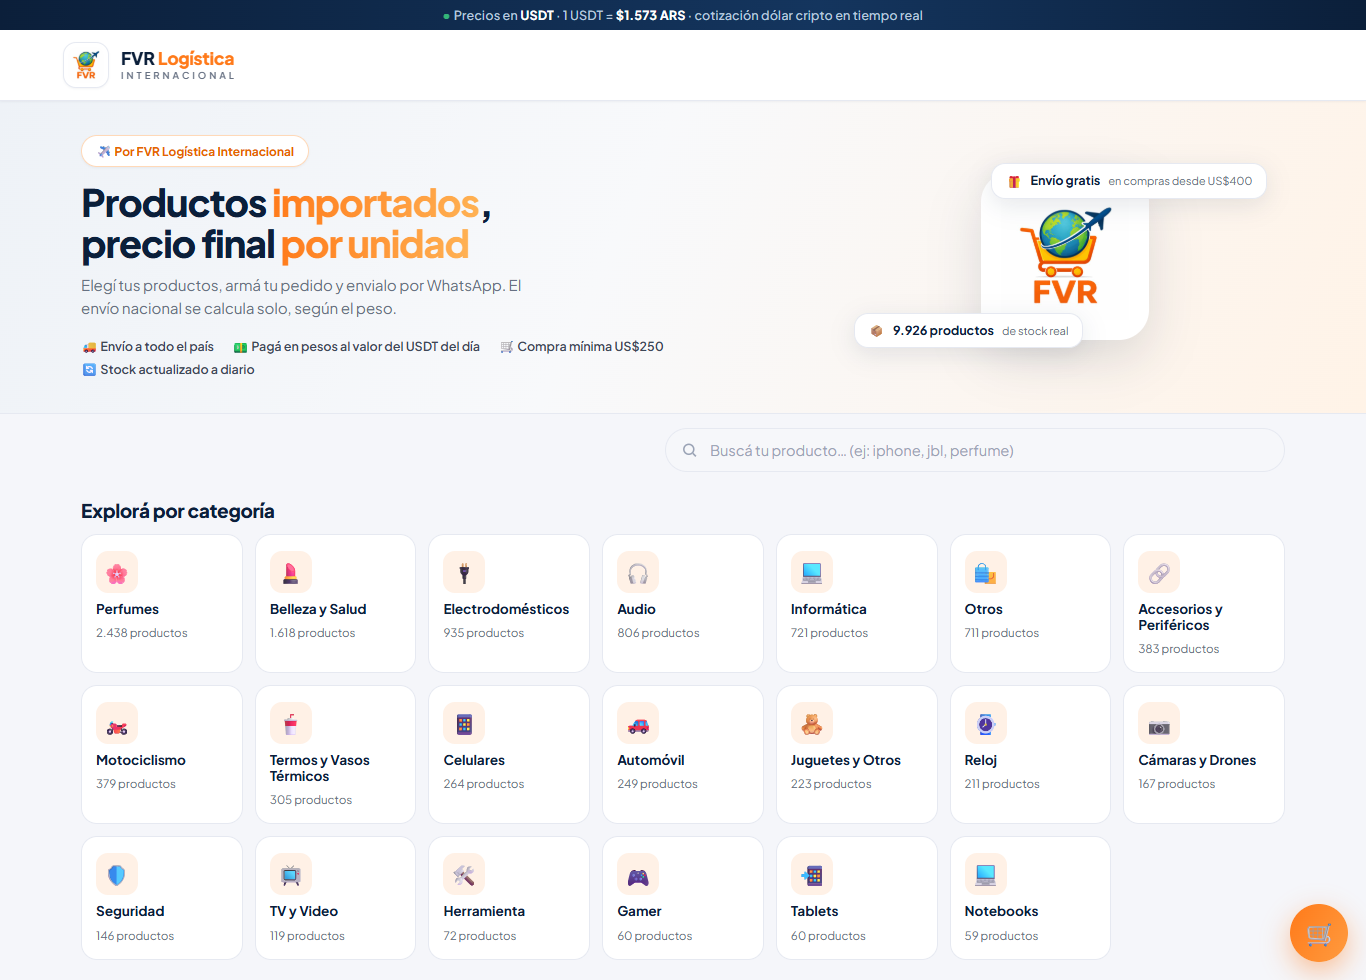
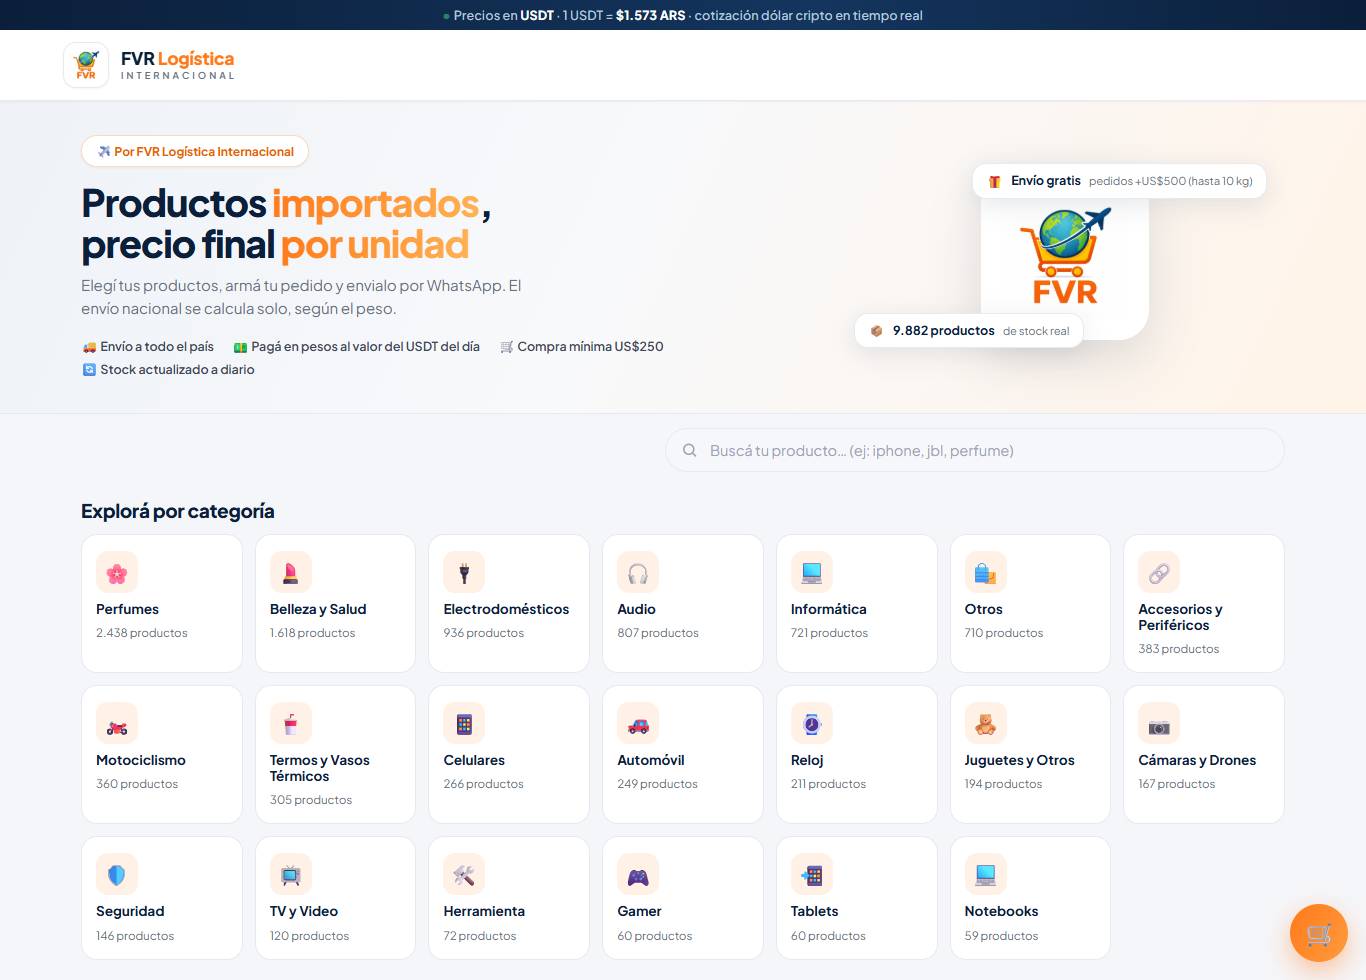
fix cotización USDT (agregado CriptoYa, no min); descuento envío +500USD; hero 6 marcas sin duplicar visual; buscador destacado; TVs 32/43 +10

diff --git a/app/globals.css b/app/globals.css
@@ -55,13 +55,13 @@ header.top {
 
 .search { flex: 1; position: relative; max-width: 620px; margin-left: auto; }
 .search input {
-  width: 100%; padding: 12px 40px 12px 44px; border: 1.5px solid var(--line);
-  border-radius: 999px; font-size: 14.5px; background: #f6f7fa; outline: none; transition: .18s;
-  font-family: inherit;
+  width: 100%; padding: 15px 44px 15px 48px; border: 2px solid #ffd9b8;
+  border-radius: 999px; font-size: 15px; background: #fff; outline: none; transition: .18s;
+  font-family: inherit; box-shadow: 0 4px 18px rgba(255,122,26,.13), var(--shadow-sm);
 }
-.search input::placeholder { color: #9aa3b5; }
-.search input:focus { border-color: var(--accent); background: #fff; box-shadow: 0 0 0 4px rgba(255,122,26,.13); }
-.search svg { position: absolute; left: 16px; top: 50%; transform: translateY(-50%); color: #9aa3b5; pointer-events: none; }
+.search input::placeholder { color: #8a94a6; font-weight: 500; }
+.search input:focus { border-color: var(--accent); box-shadow: 0 0 0 4px rgba(255,122,26,.16), 0 4px 18px rgba(255,122,26,.15); }
+.search svg { position: absolute; left: 18px; top: 50%; transform: translateY(-50%); color: var(--accent-dark); pointer-events: none; }
 .search .clear { position: absolute; right: 9px; top: 50%; transform: translateY(-50%); border: none; background: #e8ebf2; color: var(--muted); width: 26px; height: 26px; border-radius: 50%; cursor: pointer; font-size: 15px; line-height: 1; }
 
 /* ---------- Hero (estilo FVR Sourcing: claro, con acentos naranjas) ---------- */
@@ -84,8 +84,18 @@ header.top {
   -webkit-background-clip: text; background-clip: text; color: transparent;
 }
 .hero p { margin: 0; color: var(--muted); font-size: 15px; max-width: 480px; line-height: 1.55; }
-.hero-marks { display: flex; flex-wrap: wrap; gap: 7px 18px; margin-top: 18px; }
-.hero-marks span { font-size: 12.5px; font-weight: 600; color: #3d4757; }
+.hero-marks { display: grid; grid-template-columns: repeat(3, minmax(0, 1fr)); gap: 9px; margin-top: 20px; max-width: 640px; }
+.hero-marks .mark {
+  display: grid; grid-template-columns: 34px 1fr; grid-template-rows: auto auto; column-gap: 9px;
+  background: rgba(255,255,255,.72); border: 1px solid #edeaf2; border-radius: 13px;
+  padding: 10px 12px; backdrop-filter: blur(3px); box-shadow: var(--shadow-sm); align-items: center;
+}
+.hero-marks .mark i {
+  grid-row: 1 / span 2; font-style: normal; font-size: 17px; width: 34px; height: 34px;
+  background: var(--accent-soft); border-radius: 10px; display: grid; place-items: center;
+}
+.hero-marks .mark b { font-size: 12px; color: var(--navy); font-weight: 800; line-height: 1.2; }
+.hero-marks .mark small { font-size: 10.5px; color: var(--muted); line-height: 1.25; }
 .hero-visual { position: relative; display: flex; justify-content: center; align-items: center; min-height: 210px; }
 .hero-logo-card {
   width: 168px; height: 168px; background: #fff; border-radius: 30px; padding: 20px;
@@ -297,6 +307,8 @@ footer .fupd { font-size: 12px; opacity: .75; }
 .trow { display: flex; justify-content: space-between; padding: 6px 0; font-size: 13.5px; color: var(--text); }
 .trow.total { border-top: 1px dashed var(--line); margin-top: 4px; padding-top: 10px; font-size: 16.5px; font-weight: 800; color: var(--navy); }
 .trow.ars { color: var(--muted); font-size: 12.5px; padding-top: 0; }
+.trow.descuento { color: var(--green); font-size: 12.5px; }
+.trow.descuento b { color: var(--green); }
 .cart-min { background: #fff4de; border-top: 1px solid #f0d9a8; color: #7a5a00; font-size: 12.5px; padding: 10px 18px; font-weight: 600; }
 .cart-ok { background: #e8f7ee; border-top: 1px solid #bfe6cf; color: var(--green); font-size: 12.5px; padding: 10px 18px; font-weight: 600; }
 .cart-actions { display: flex; gap: 9px; padding: 12px 18px 6px; background: var(--surface); }
@@ -317,8 +329,11 @@ footer .fupd { font-size: 12px; opacity: .75; }
   .hero-visual { display: none; }
   .hero h1 { font-size: 25px; letter-spacing: -.7px; }
   .hero p { font-size: 13px; }
-  .hero-marks { gap: 6px 14px; margin-top: 14px; }
-  .hero-marks span { font-size: 11.5px; }
+  .hero-marks { grid-template-columns: repeat(2, minmax(0, 1fr)); gap: 7px; margin-top: 16px; max-width: none; }
+  .hero-marks .mark { padding: 8px 9px; border-radius: 11px; column-gap: 7px; grid-template-columns: 30px 1fr; }
+  .hero-marks .mark i { width: 30px; height: 30px; font-size: 15px; border-radius: 8px; }
+  .hero-marks .mark b { font-size: 11px; }
+  .hero-marks .mark small { font-size: 9.5px; }
   .toolbar { gap: 7px; }
   .tb-input { width: 90px; }
   .cart-panel { width: 100%; }

diff --git a/lib/cart.js b/lib/cart.js
@@ -27,19 +27,29 @@ export function calcCarrito(items, envios = null) {
   peso = Math.round(peso * 100) / 100;
   const subtotal = subFija + subGen;
 
-  let envio = 0, envioTxt = 'Incluido en los productos', consultar = false, gratis = false;
+  const precioTramo = (kg) => (tabla.find(t => kg <= t.kg) || tabla[tabla.length - 1]).usd;
+
+  let envio = 0, envioTxt = 'Incluido en los productos', consultar = false, gratis = false, descuentoEnvio = 0;
   if (subGen > 0) {
-    if (subGen >= 500 && peso <= 10) { gratis = true; envioTxt = 'GRATIS (compra supera US$500)'; }
-    else if (peso > maxKg) { consultar = true; envioTxt = 'A cotizar (pedido muy pesado)'; }
-    else {
-      const tramo = tabla.find(t => peso <= t.kg) || tabla[tabla.length - 1];
-      envio = tramo.usd;
+    if (peso > maxKg) { consultar = true; envioTxt = 'A cotizar (pedido muy pesado)'; }
+    else if (subGen >= 500) {
+      if (peso <= 10) { gratis = true; envioTxt = 'GRATIS (compra supera US$500)'; }
+      else {
+        // compra ≥US$500 pero pesa más de 10kg: los primeros 10kg van gratis,
+        // se cobra solo la diferencia respecto del tramo de 10kg
+        const completo = precioTramo(peso);
+        descuentoEnvio = precioTramo(10);
+        envio = Math.max(0, completo - descuentoEnvio);
+        envioTxt = `US$ ${envio}`;
+      }
+    } else {
+      envio = precioTramo(peso);
       envioTxt = `US$ ${envio}`;
     }
   }
   const total = subtotal + envio;
   const faltaMinimo = Math.max(0, COMPRA_MINIMA - subtotal);
-  return { subFija, subGen, subtotal, peso, pesoEstimado, unidades, envio, envioTxt, consultar, gratis, total, minimoOk: subtotal >= COMPRA_MINIMA, faltaMinimo };
+  return { subFija, subGen, subtotal, peso, pesoEstimado, unidades, envio, envioTxt, consultar, gratis, descuentoEnvio, total, minimoOk: subtotal >= COMPRA_MINIMA, faltaMinimo };
 }
 
 const usdFmt = n => `US$ ${Number(n).toLocaleString('es-AR')}`;
@@ -59,6 +69,7 @@ export function mensajePedido(items, tot, rate) {
   l.push(`Subtotal (${tot.unidades} ${tot.unidades === 1 ? 'producto' : 'productos'}): *${usdFmt(tot.subtotal)}*`);
   if (tot.subGen > 0) l.push(`Peso${tot.pesoEstimado ? ' aprox.' : ''}: ${tot.peso.toLocaleString('es-AR')} kg`);
   l.push(`Envío nacional: ${tot.consultar ? '⚠️ a cotizar (pedido muy pesado)' : tot.gratis ? '🎁 GRATIS' : tot.envio > 0 ? usdFmt(tot.envio) : 'incluido en los productos'}`);
+  if (tot.descuentoEnvio > 0) l.push(`🎁 Descuento en envío aplicado: −${usdFmt(tot.descuentoEnvio)} (primeros 10 kg gratis por compra +US$500)`);
   l.push(`💵 *TOTAL: ${usdFmt(tot.total)}${tot.consultar ? ' + envío a cotizar' : ''}* (en USDT)`);
   if (rate) l.push(`≈ $${Math.round(tot.total * rate).toLocaleString('es-AR')} pesos al valor del USDT de hoy`);
   l.push('');

diff --git a/components/RateContext.jsx b/components/RateContext.jsx
@@ -9,15 +9,23 @@ export function RateProvider({ children }) {
   useEffect(() => {
     let alive = true;
     const load = async () => {
+      // 1) valor agregado del dólar cripto (CriptoYa) — el más fiel al valor real del momento
+      try {
+        const r = await fetch('https://criptoya.com/api/dolar');
+        const j = await r.json();
+        const v = j?.cripto?.usdt?.ask;
+        if (alive && typeof v === 'number' && v > 0) { setRate(v); return; }
+      } catch {}
+      // 2) respaldo: MEDIANA de los exchanges (nunca el mínimo: un P2P desactualizado rompe el valor)
       try {
         const r = await fetch('https://criptoya.com/api/usdt/ars/1');
         const j = await r.json();
-        const vals = Object.values(j).map(v => v?.totalAsk || v?.ask).filter(n => typeof n === 'number' && n > 0);
-        if (alive && vals.length) setRate(Math.min(...vals)); // cotización más conveniente
+        const vals = Object.values(j).map(v => v?.totalAsk || v?.ask).filter(n => typeof n === 'number' && n > 0).sort((a, b) => a - b);
+        if (alive && vals.length) setRate(vals[Math.floor(vals.length / 2)]);
       } catch {}
     };
     load();
-    const id = setInterval(load, 60000);
+    const id = setInterval(load, 60000); // refresca cada 60 segundos
     return () => { alive = false; clearInterval(id); };
   }, []);
   return <RateContext.Provider value={rate}>{children}</RateContext.Provider>;

diff --git a/components/Tienda.jsx b/components/Tienda.jsx
@@ -88,18 +88,18 @@ export default function Tienda({ catalogo }) {
               <h1>Productos <em>importados</em>,<br />precio final <em>por unidad</em></h1>
               <p>Elegí tus productos, armá tu pedido y envialo por WhatsApp. El envío nacional se calcula solo, según el peso.</p>
               <div className="hero-marks">
-                <span>🚚 Envío a todo el país</span>
-                <span>💵 Pagá en pesos al valor del USDT del día</span>
-                <span>🛒 Compra mínima US$250</span>
-                <span>🔄 Stock actualizado a diario</span>
+                <span className="mark"><i>🚚</i><b>Envío a todo el país</b><small>llega hasta tu ciudad</small></span>
+                <span className="mark"><i>🎁</i><b>Envío gratis +US$500</b><small>hasta 10 kg de pedido</small></span>
+                <span className="mark"><i>💵</i><b>Pagá en pesos</b><small>al valor del USDT del día</small></span>
+                <span className="mark"><i>📦</i><b>{catalogo.productos.length.toLocaleString('es-AR')} productos</b><small>de stock real</small></span>
+                <span className="mark"><i>🛒</i><b>Compra mínima US$250</b><small>por pedido</small></span>
+                <span className="mark"><i>🔄</i><b>Actualizado a diario</b><small>precios y stock de hoy</small></span>
               </div>
             </div>
             <div className="hero-visual">
               <div className="hero-logo-card">
                 <img src="https://raw.githubusercontent.com/francatamarca/fvr-catalogo/main/public/logo-fvr.jpg" alt="FVR" />
               </div>
-              <div className="hero-chip chip-a">🎁 <b>Envío gratis</b><span>pedidos +US$500 (hasta 10 kg)</span></div>
-              <div className="hero-chip chip-b">📦 <b>{catalogo.productos.length.toLocaleString('es-AR')} productos</b><span>de stock real</span></div>
             </div>
           </div>
         </div>

diff --git a/components/Cart.jsx b/components/Cart.jsx
@@ -69,6 +69,9 @@ export default function Cart() {
                   <div className="trow"><span>Subtotal ({tot.unidades} u.)</span><b>US$ {tot.subtotal.toLocaleString('es-AR')}</b></div>
                   {tot.subGen > 0 && <div className="trow"><span>Peso{tot.pesoEstimado ? ' aprox.' : ''}</span><b>{tot.peso.toLocaleString('es-AR')} kg</b></div>}
                   <div className="trow"><span>Envío nacional</span><b style={{ color: tot.gratis || tot.subGen === 0 ? 'var(--green)' : tot.consultar ? 'var(--accent-dark)' : 'inherit' }}>{tot.envioTxt}</b></div>
+                  {tot.descuentoEnvio > 0 && (
+                    <div className="trow descuento"><span>🎁 Descuento en envío (10 kg gratis)</span><b>−US$ {tot.descuentoEnvio.toLocaleString('es-AR')}</b></div>
+                  )}
                   <div className="trow total"><span>TOTAL</span><b>US$ {tot.total.toLocaleString('es-AR')}{tot.consultar ? ' + envío' : ''}</b></div>
                   {rate ? <div className="trow ars"><span>≈ en pesos hoy</span><span>${Math.round(tot.total * rate).toLocaleString('es-AR')}</span></div> : null}
                 </div>